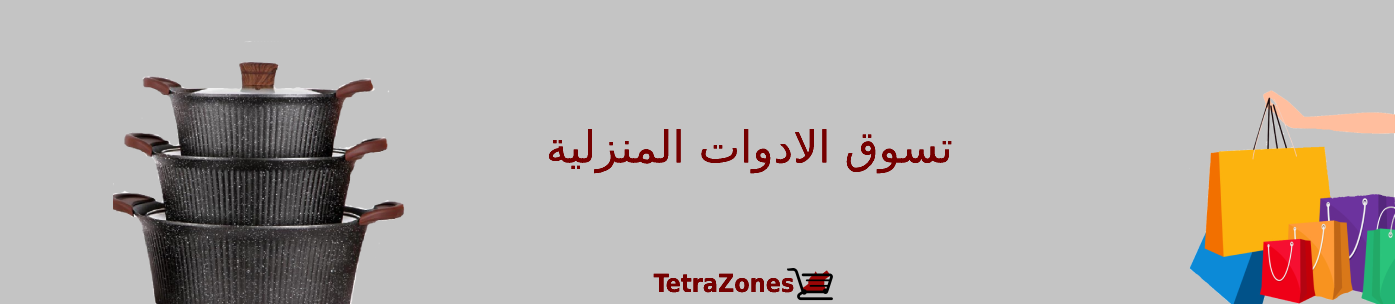
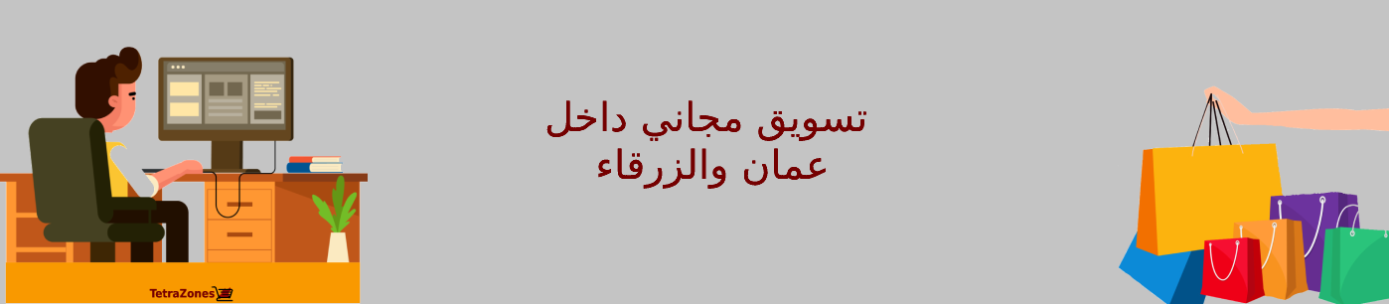
remove the laple name in checkout

diff --git a/client/src/pages/Home.js b/client/src/pages/Home.js
@@ -4,6 +4,8 @@ import BestSellers from "../components/home/BestSellers";
 import CategoryList from "../components/category/CategoryList";
 import SubList from "../components/sub/SubList";
 import cover from '../images/cover.png';
+import cover2 from '../images/Cover2.png';
+
 import { Link } from "react-router-dom";
 import Header from '../components/nav/Header';
 import AliceCarousel from 'react-alice-carousel';
@@ -15,14 +17,14 @@ const Home = () => {
       <Header />
       <div className="text-center">
         <AliceCarousel autoPlay disableButtonsControls infinite autoPlayInterval='4000'>
-          <Link to="/category/dotlmnzly">
+          <Link to="/shop">
             <img src={cover} className="sliderimg img-fluid" alt='jsx-a11y/alt-text'/>
           </Link>
-          <Link to='/shop'>
-            <img src={cover} className=" sliderimg img-fluid" alt='jsx-a11y/alt-text'/>
+          <Link to='/category/dotlmnzly'>
+            <img src={cover2} className=" sliderimg img-fluid" alt='jsx-a11y/alt-text'/>
           </Link>
           <Link to='/shop'>
-            <img src={cover} className=" sliderimg img-fluid" alt='jsx-a11y/alt-text'/>
+            <img src={cover2} className=" sliderimg img-fluid" alt='jsx-a11y/alt-text'/>
           </Link>
         </AliceCarousel>
       </div>
